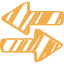
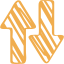
aaa

diff --git a/src/components/detailsComponent.js b/src/components/detailsComponent.js
@@ -12,11 +12,9 @@ export default function DetailsComponent(props) {
     
     return (
         <div>
-            <h2 className="d-flex justify-content-center pt-5">
-                You will get<br/>
-                {parseFloat(toFieldAmount).toFixed(2)} {selectedToCurrency.substring('USD'.length)} <br/>
-                for<br/>
-                {parseFloat(fromFieldAmount).toFixed(2)} {selectedFromCurrency.substring('USD'.length)}
+            <h2 className="d-flex justify-content-center text-center pt-5">
+                You will get {parseFloat(toFieldAmount).toFixed(2)} {selectedToCurrency.substring('USD'.length)} <br/>
+                for {parseFloat(fromFieldAmount).toFixed(2)} {selectedFromCurrency.substring('USD'.length)}
             </h2>
             <div className="d-flex justify-content-center pt-5 text-warning">
                 <DateComponent/>

diff --git a/src/css/swapComponent.css b/src/css/swapComponent.css
@@ -6,12 +6,12 @@
 
 @keyframes spin {
     from{
-      transform: rotateY(0deg);
+      transform: rotateX(0deg);
       -moz-transform: rotateY(0deg);
       -ms-transform: rotateX(0deg);
     }to{
-        transform: rotateY(360deg);
-        -moz-transform: rotateY(360deg);
+      transform: rotateX(360deg);
+      -moz-transform: rotateY(360deg);
       -ms-transform: rotateX(360deg);
     }
 }

diff --git a/src/components/headerComponent.js b/src/components/headerComponent.js
@@ -6,7 +6,7 @@ export default function HeaderComponent() {
         <header style={{minHeight: 150}}>
             <h1 
             style={{
-                color:"#AAAAAA", 
+                color:"#aaaaaa", 
                 textAlign: "center", 
                 padding: "20px 0",
                 fontFamily: "'Amatic SC', cursive", 
